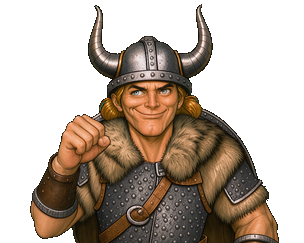
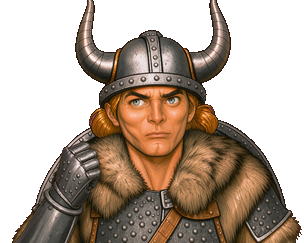
Point & click saison 1 : nuit du héros refaite avec les portraits hp3 (gros plan, bouclier modeste, même taille et même place dans toutes les poses), intermédiaires des gestes et poing contre la vitre recalculés, visage et poing recalés

diff --git a/js/pointclick/data/sheets.js b/js/pointclick/data/sheets.js
@@ -60,7 +60,7 @@ NEWB.forEach(k => {
 /* nuit du héros, vue de face (tools/hero_nuit_sprites.py) : approche (en pied, genoux, taille), portrait, gestes avec image intermédiaire (…A),
    frappe en 3 temps ; HERO_N = visage [centre x, centre y, largeur] en pixels du sprite, pour enchaîner l'approche à taille de visage égale */
 ['Ap1', 'Ap2', 'Ap3', 'Neutral', 'Talk', 'Blink', 'PointA', 'Point', 'ShrugA', 'Shrug', 'PleadA', 'Plead', 'ThinkA', 'Think', 'WaveA', 'Wave', 'KnockA', 'KnockB', 'KnockC'].forEach(k => (SPR['hero.n' + k] = 'hero_n' + k));
-export const HERO_N = {'nAp1': [319.5, 119.5, 50], 'nAp2': [318.0, 161.5, 87], 'nAp3': [319.0, 215.0, 111], 'nNeutral': [149.5, 102.0, 54]};
+export const HERO_N = {'nAp1': [319.5, 119.5, 50], 'nAp2': [318.0, 161.5, 87], 'nAp3': [319.0, 215.0, 111], 'nNeutral': [151.0, 104.5, 71]};
 export const HERO = {
   walk: ['hero.w1', 'hero.w2', 'hero.w3', 'hero.w4', 'hero.w5', 'hero.w6', 'hero.w7', 'hero.w8'], walkOld: ['hero.walkA', 'hero.walkP', 'hero.walkB', 'hero.walkP'],
   walkF: ['hero.fWalkA', 'hero.fWalkP', 'hero.fWalkB', 'hero.fWalkP'], walkB: ['hero.bWalkA', 'hero.bStand', 'hero.bWalkB', 'hero.bStand'],

diff --git a/js/pointclick/engine/glass.js b/js/pointclick/engine/glass.js
@@ -43,7 +43,7 @@ function flyDraw(c, f, t) {
 const FW = 61;                                    /* largeur du visage à l'écran : celle du portrait de nuit, et celle de toutes les poses de nettoyage */
 const HOME = [W / 2, 112];                        /* où se tient son visage quand il parle */
 const PN = HERO_N.nNeutral, PSC = FW / PN[2];     /* portraits de nuit (même cadrage pour tous) : visage et échelle */
-const FIST = [95 - PN[0], 161 - PN[1]];           /* poing contre la vitre (hero_nKnockC), par rapport au visage, en pixels du portrait */
+const FIST = [124 - PN[0], 158 - PN[1]];          /* poing contre la vitre (hero_nKnockC, portraits hp3 du 27/11), par rapport au visage, en pixels du portrait */
 const KINDS = {   /* façon de frotter, rayon nettoyé, vitesse du point de contact */
   palm: { move: 'circles', r: 30, v: 150 }, rag: { move: 'zigzag', r: 30, v: 180 }, leaf: { move: 'zigzag', r: 32, v: 140 }, duster: { move: 'flicks', r: 26, v: 260 },
   sleeve: { move: 'strokes', r: 36, v: 200 }, finger: { move: 'scrape', r: 13, v: 110 }, breath: { move: 'circles', r: 34, v: 140 }

diff --git a/easter eggs/pointclick/tools/hero_nuit_sprites.py b/easter eggs/pointclick/tools/hero_nuit_sprites.py
@@ -4,7 +4,7 @@ détourage du fond vert uni, réduction à cadre fixe (toutes les images d'un gr
 et mesure du visage (approche et portrait de repos : centre et largeur, en pixels du sprite) qui sert au moteur à enchaîner l'approche à taille de visage égale.
   portrait et gestes : 1280x1024 -> 304x243 ; approche : 1280x1024 -> 640x512 (elle est affichée plus grande).
 Écrit assets/pointclick/spr/hero_n<Nom>.png et assets/pointclick/spr/hero_n.json {nom: [cx, cy, largeur du visage]}."""
-import os, json
+import os, sys, json
 import numpy as np
 from PIL import Image, ImageFilter
 from scipy import ndimage as nd
@@ -20,12 +20,15 @@ def key(im):
     bg = np.median(np.concatenate([A[:8].reshape(-1, 3), A[:, :8].reshape(-1, 3), A[:, -8:].reshape(-1, 3)]), 0)
     d = np.abs(A - bg).sum(2)
     g = A[..., 1] - np.maximum(A[..., 0], A[..., 2])                 # dominante verte
-    al = np.clip((d - 60) / 70, 0, 1) * np.clip(1 - (g - 25) / 50, 0, 1)
+    al = np.clip((d - 60) / 70, 0, 1) * (np.clip(1 - (g - 25) / 50, 0, 1) if bg[1] > max(bg[0], bg[2]) else 1)
     m = al > 0.5; lab, n = nd.label(m)
     if n: sz = nd.sum(m, lab, range(1, n + 1)); keep = np.zeros(n + 1, bool); keep[1:] = sz >= 400; al = al * keep[lab]
     ho = nd.binary_fill_holes(al > 0.5) & ~(al > 0.5); hl, hn = nd.label(ho)     # petits trous fermés (rivets à reflet vert) : rebouchés
     if hn: hs = nd.sum(ho, hl, range(1, hn + 1)); small = np.zeros(hn + 1, bool); small[1:] = hs < 300; al = np.where(small[hl], 1.0, al)
-    A[..., 1] -= np.clip(g, 0, None) * (al > 0) * (al < 0.98)       # franges vertes : vert ramené au max(rouge, bleu)
+    if not bg[1] > max(bg[0], bg[2]):   # fond magenta (portraits hp3) : n'est fond que ce qui touche le haut ou les côtés de l'image (le bas coupe le buste), tout trou intérieur est rebouché
+        bl, bn = nd.label(al < 0.5); edge = set(np.unique(np.concatenate([bl[0], bl[:, 0], bl[:, -1]]))) - {0}
+        al = np.where((al < 0.5) & ~np.isin(bl, list(edge)), 1.0, al)
+    if bg[1] > max(bg[0], bg[2]): A[..., 1] -= np.clip(g, 0, None) * (al > 0) * (al < 0.98)   # fond vert : franges vertes ramenées au max(rouge, bleu)
     rgba = np.dstack([np.clip(A, 0, 255), al * 255]).astype(np.uint8)
     return Image.fromarray(rgba, 'RGBA')
 
@@ -45,8 +48,18 @@ def face(im):
     return [round(float(x0 + x1) / 2, 1), round(float(y0 + y1) / 2, 1), int(x1 - x0 + 1)]
 
 
+# Portraits de nuit refaits le 27/11/2026 depuis les portraits du héros hp3 (work/hp3, base au bouclier modeste et centré, fond magenta) :
+# `hero_nuit_sprites.py hp3` ne réécrit que le portrait et ses gestes ; l'approche (ap1-3) et ses mesures restent celles du 15/11.
+HP3 = {'neutral': 'base', 'talk': 'hp_talk', 'blink': 'hp_blink', 'pointA': 'hp_pointA', 'point': 'hp_point', 'shrugA': 'hp_shrugA', 'shrug': 'hp_shrug',
+       'pleadA': 'hp_pleadA', 'plead': 'hp_plead', 'thinkA': 'hp_thinkA', 'think': 'hp_think', 'waveA': 'hp_waveA', 'wave': 'hp_wave',
+       'knockA': 'hp_knock2', 'knockB': 'hp_knock1', 'knockC': 'hp_knockC'}
+
+
 def main():
-    ch = json.load(open(os.path.join(W, 'choix.json'))); meta = {}
+    global W
+    if sys.argv[1:2] == ['hp3']:
+        W = os.path.join(T, '..', 'work', 'hp3'); ch = HP3; meta = json.load(open(os.path.join(OUT, 'hero_n.json')))
+    else: ch = json.load(open(os.path.join(W, 'choix.json'))); meta = {}
     for k, f in ch.items():
         big = k.startswith('ap'); sz = (640, 512) if big else (304, 243)
         im = key(Image.open(os.path.join(W, f + '.png'))).resize(sz, Image.LANCZOS)

diff --git a/easter eggs/pointclick/tools/gen_portraits3.py b/easter eggs/pointclick/tools/gen_portraits3.py
@@ -33,6 +33,16 @@ POSES = [  # nom, référence, graine de départ, consigne
 for k in ('point', 'shrug', 'plead', 'think', 'wave', 'lean'):
     POSES.append((k + '_t', k, 3300 + len(POSES) * 10, B + " Exactly the same pose and gesture, same hands, but his mouth is wide open talking."))
 
+# images de la nuit (27/11) : intermédiaires des gestes et poing écrasé contre la vitre
+POSES += [
+    ('pointA', 'base', 3700, HB + " He is raising his right hand toward the viewer at chest height, the index finger starting to point, halfway through the gesture, mouth closed."),
+    ('shrugA', 'base', 3710, B + " He is starting to shrug: both hands rising on each side at the bottom of the picture, palms beginning to turn up, eyebrows rising, mouth closed. The head is exactly as big as in the reference."),
+    ('pleadA', 'base', 3720, B + " He is bringing both hands together in front of his chest at the bottom of the picture, about to press them together, eyebrows rising, mouth closed."),
+    ('thinkA', 'base', 3730, B + " He is raising his right hand toward his chin, halfway through the gesture, the hand at the bottom of the picture, eyes starting to look up, mouth closed."),
+    ('waveA', 'base', 3740, HB + " He is raising his open right hand at shoulder height, halfway through a wave, smile widening, mouth closed."),
+    ('knockC', 'knock1', 3750, B + " Exactly the same pose, same armored gauntlet, but his fist is now pressed flat against the glass of the screen right in front of the viewer, the steel knuckles squashed against the window pane, wincing grimace."),
+]
+
 def mesure(path):
     a = np.asarray(Image.open(path).convert('RGB')).astype(int); h, w, _ = a.shape
     bg = np.median(np.concatenate([a[:20, :20].reshape(-1, 3), a[:20, -20:].reshape(-1, 3)]), axis=0)
